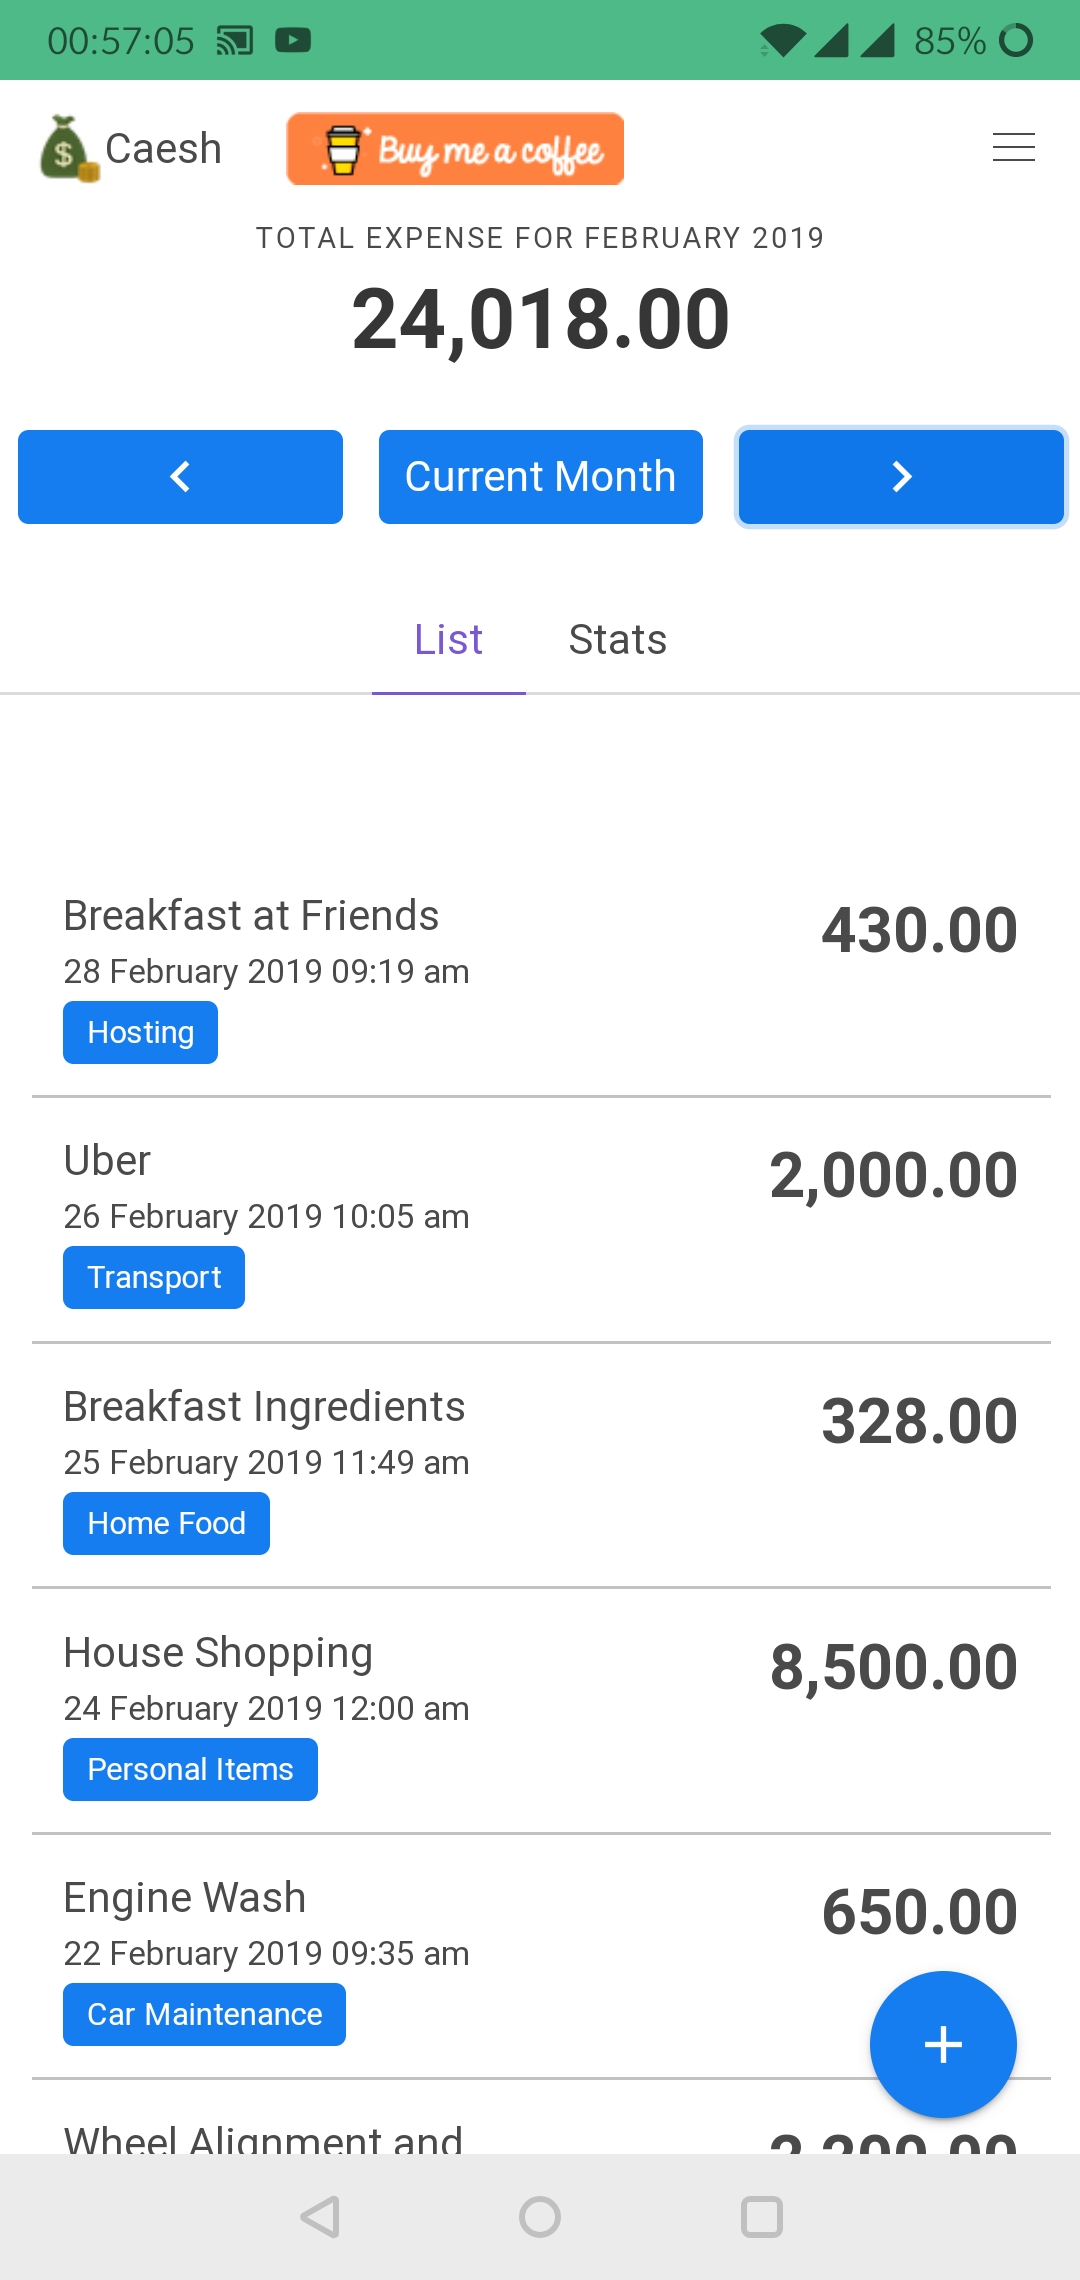
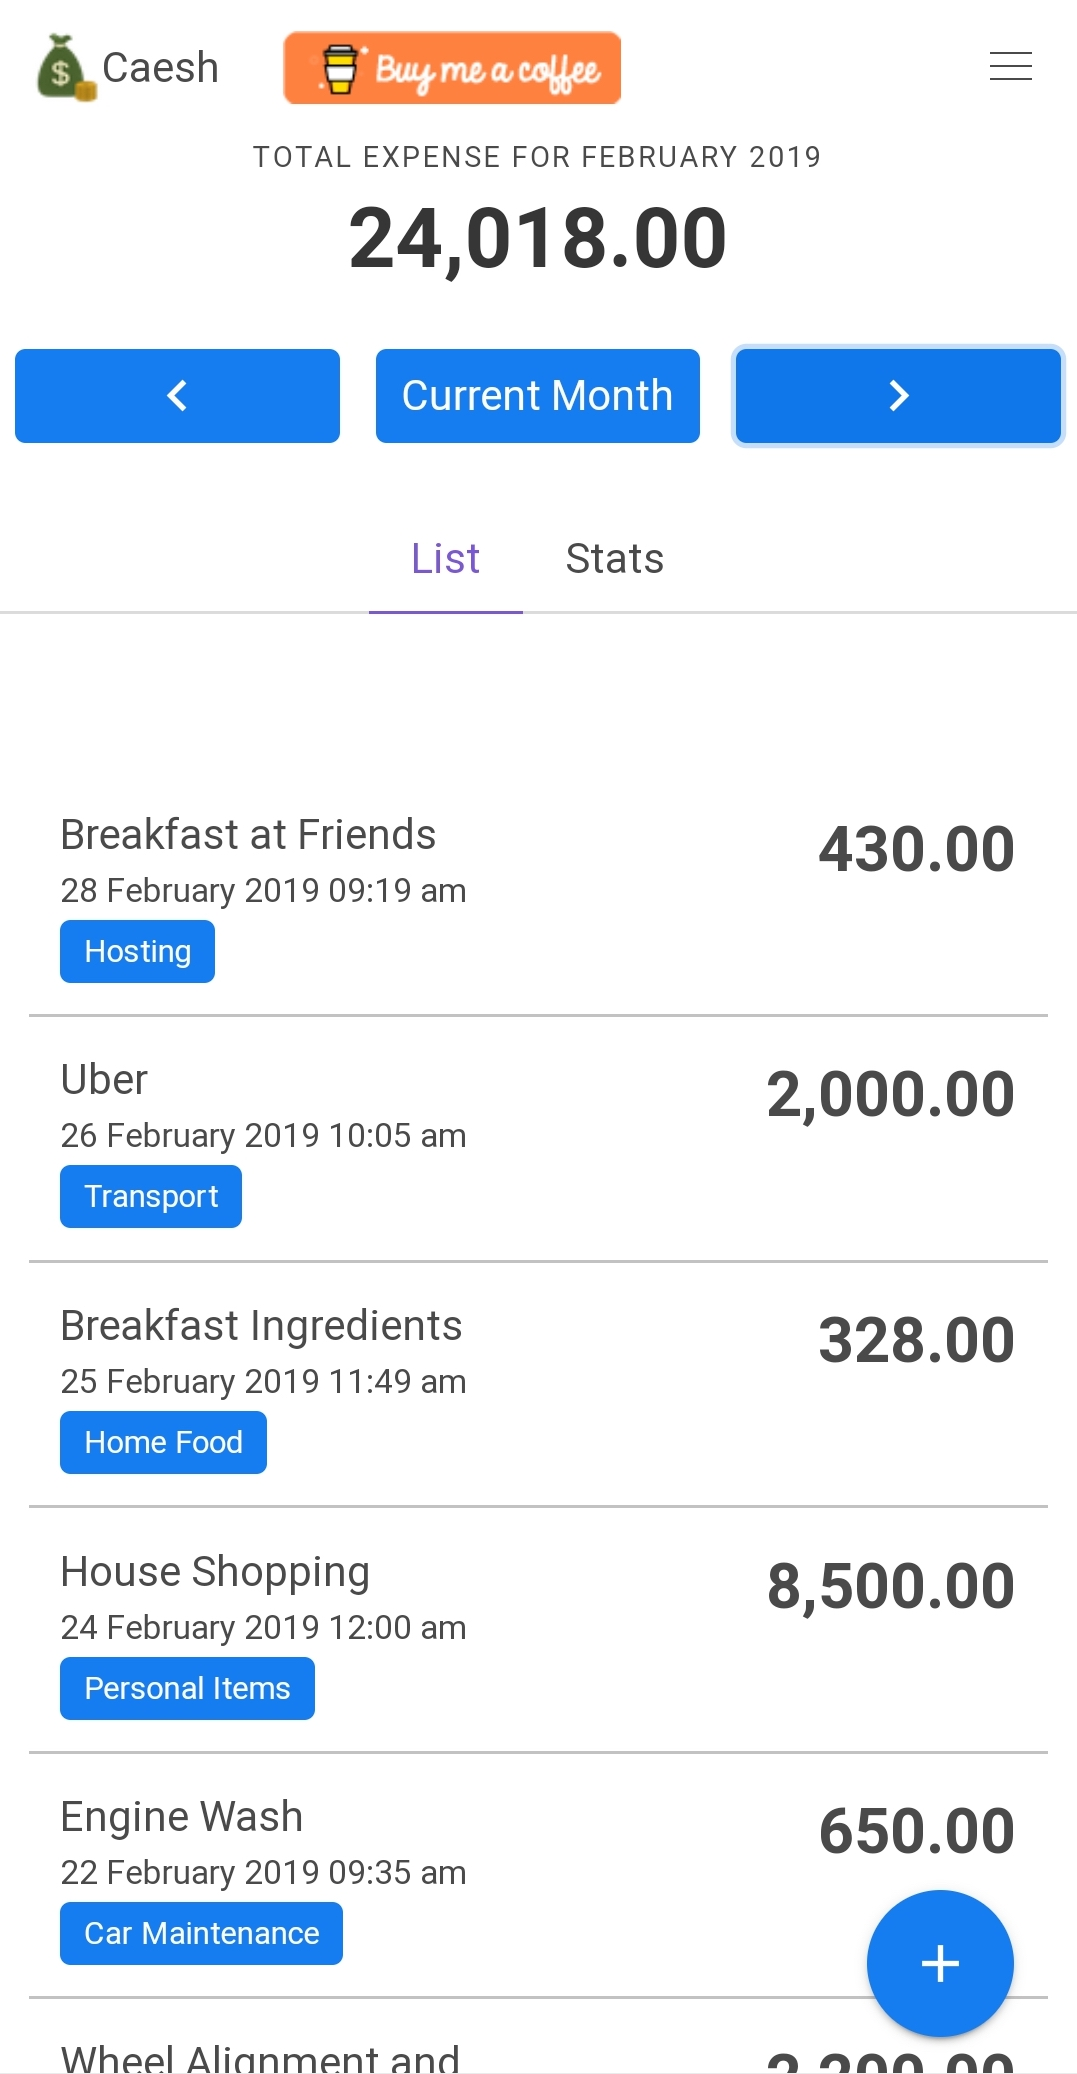
Update screen shots

diff --git a/index.html b/index.html
@@ -72,7 +72,7 @@
               <div class="level">
                 <span class="tag is-danger">Kotlin</span>
               </div>
-              <img src="quotzz.jpg"/>
+              <img src="quotzz.png"/>
             </div>
           </div>
         </div>
